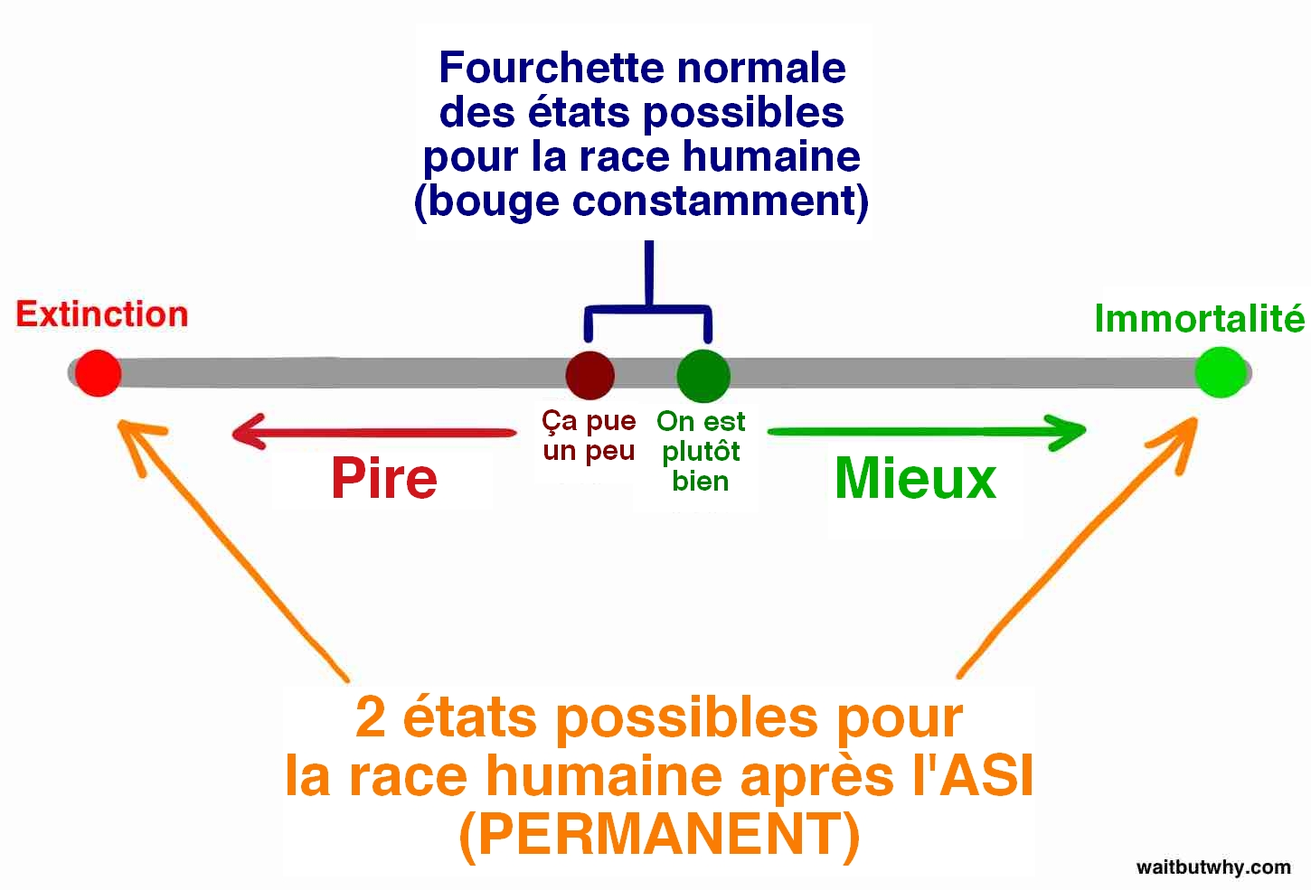
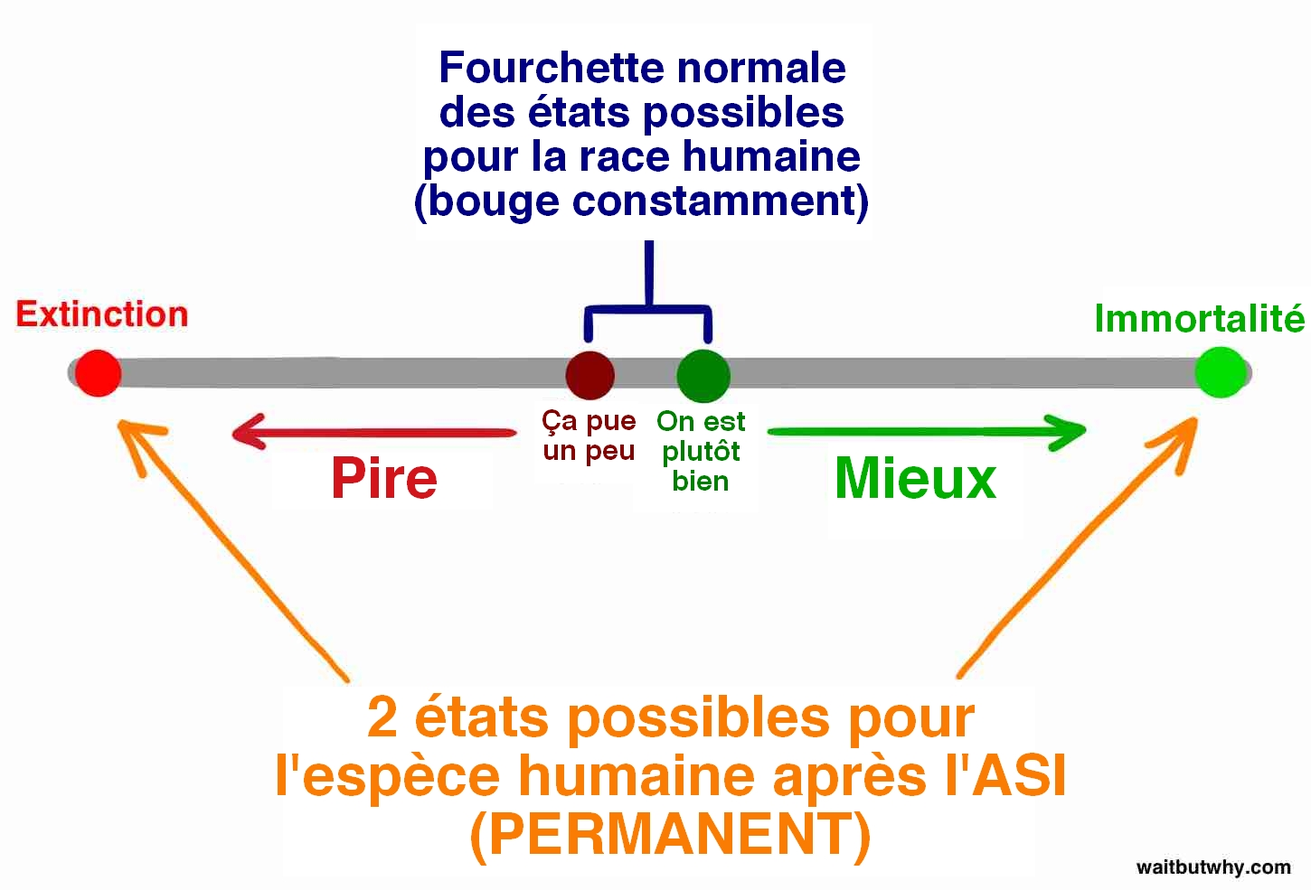
Include content feedback

Changed region(s): [[0.1862, 0.7614, 0.8379, 0.9746]]

diff --git a/src/posts/waitbutwhy1.md b/src/posts/waitbutwhy1.md
@@ -9,6 +9,8 @@ layout: waitbutwhy
 
 **22 janvier 2015 Par Tim Urban – traduction de Février 2025**
 
+**PDF en anglais** : _Nous avons créé un PDF super classe de cet article pour l'impression et la lecture hors ligne. [Achetez-le ici](https://gum.co/wbw-ai1). (Ou consultez-en un [aperçu](https://waitbutwhy.com/wp-content/uploads/2016/04/artificial-intelligence-revolution-1-preview.pdf).) _
+
 Note : _Si ce billet m'a pris trois semaines à finir, c'est qu'en fouillant dans mes recherches sur l'Intelligence Artificielle, je n'arrivais pas à croire ce que je lisais. J'ai rapidement compris que ce qui se passait dans le monde de l'IA n'était pas seulement une question importante, mais de loin LA question la plus importante pour notre avenir. Je voulais donc en apprendre le plus possible à ce sujet, et ceci fait, je voulais m'assurer d'écrire un article qui explique vraiment tout ce que cela recouvre et pourquoi c'est si crucial. Comme on pouvait s'y attendre, ça a pris des proportions énormes, alors j'ai divisé mon post en deux parties. Ceci est la Partie 1 — La Partie 2 est [ici](/waitbutwhy2)._
 
 ---
@@ -19,7 +21,7 @@ Qu'est-ce que ça fait de se trouver là ?
 
 ![La pente est raide](/wbw/part1_01_progress1.png)
 
-On pourrait se dire que c'est un moment d'une grande intensité — mais il faut alors se rappeler ce que ça fait de se trouver sur un axe de temps: on ne peut pas voir ce qui se trouve à sa droite. Donc être là on le ressent plutôt comme ça : :
+On pourrait se dire que c'est un moment d'une grande intensité — mais il faut alors se rappeler ce que ça fait de se trouver sur un axe de temps: on ne peut pas voir ce qui se trouve à sa droite. Donc être là on le ressent plutôt comme ça :
 
 ![La pente est raide](/wbw/part1_02_progress2.jpg)
 
@@ -27,17 +29,17 @@ Ce qui a l'air plutôt normal…
 
 # L'avenir lointain — Bientôt chez vous
 
-Imaginez que vous preniez une machine à voyager dans le temps et que vous retourniez en 1750 — une époque où le monde était plongé dans une panne de courant généralisée, où pour communiquer sur de longues distances il fallait soit hurler à pleins poumons, soit tirer un coup de canon en l'air, et où tous les moyens de transports tournaientau foin. Une fois arrivé à destination, vous chopez un type, vous l'amenez en 2015, puis vous lui faites faire un petit tour et vous observez sa réaction face à tout ce qui l'entoure. On ne peut pas comprendre ce que ça lui ferait de voir des capsules brillantes filant sur une autoroute, de parler à des personnes qui étaient de l'autre côté de l'océan le matin même, de regarder des compétitions sportives qui se déroulent à 1500 km de là, d'écouter un concert qui a eu lieu il y a 50 ans, et de jouer avec mon rectangle magique ensorcelé lui permettant de capturer une image réelle ou d'enregistrer un moment de vie, de faire apparaître une carte avec un point bleu surnaturel qui bouge et lui montre où il est, de voir le visage de quelqu'un et de discuter avec lui alors qu'il est de l'autre côté du pays, et tout un tas d'autres sorcelleriesqui dépassent l'entendement. Et tout ça avant même de lui faire découvrir Internet ou de lui expliquer des choses comme la Station Spatiale Internationale, le Grand Accélérateur de Hadrons, les armes nucléaires ou la relativité générale.
+Imaginez que vous preniez une machine à voyager dans le temps et que vous retourniez en 1750 — une époque où le monde était plongé dans une panne de courant généralisée, où pour communiquer sur de longues distances il fallait soit hurler à pleins poumons, soit tirer un coup de canon en l'air, et où tous les moyens de transports tournaient au foin. Une fois arrivé à destination, vous prenez un type, vous l'amenez en 2015, puis vous lui faites faire un petit tour et vous observez sa réaction face à tout ce qui l'entoure. On ne peut pas comprendre ce que ça lui ferait de voir des capsules brillantes filant sur une autoroute, de parler à des personnes qui étaient de l'autre côté de l'océan le matin même, de regarder des compétitions sportives qui se déroulent à 1500 km de là, d'écouter un concert qui a eu lieu il y a 50 ans, et de jouer avec mon rectangle magique ensorcelé lui permettant de capturer une image réelle ou d'enregistrer un moment de vie, de faire apparaître une carte avec un point bleu surnaturel qui bouge et lui montre où il est, de voir le visage de quelqu'un et de discuter avec lui alors qu'il est de l'autre côté du pays, et tout un tas d'autres sorcelleries qui dépassent l'entendement. Et tout ça avant même de lui faire découvrir Internet ou de lui expliquer des choses comme la Station Spatiale Internationale, le Grand Accélérateur de Hadrons, les armes nucléaires ou la relativité générale.
 
 Cette expérience pour lui ne serait ni surprenante, ni choquante, ni même renversante — ces mots ne sont pas assez forts. Il pourrait littéralement en mourir.
 
-Mais voici ce qui est intéressant : Imaginant que ce type retourne lui-même en 1750, et piqué au vif par le fait que nous avons pu observer sa réaction, il décide de tenter l'expérience aussi. Il monterait dans la machine à voyager dans le temps et, reculant de la même distance, il capturerait quelqu'un vivant en l'an 1500, l'amènerait en 1750 et lui montrerait tout. Le gars de 1500 serait choqué par beaucoup de choses — mais il ne mourrait pas. Ce serait beaucoup moins dingue à vivre pour lui, car bien que 1500 et 1750 soient des époques très différentes, elles étaient bien moins différentes que 1750 et 2015.
+Mais voici ce qui est intéressant : Imaginant que ce type retourne lui-même en 1750, et piqué au vif par le fait que nous avons pu observer sa réaction, il décide de tenter l'expérience aussi. Il monterait dans la machine à voyager dans le temps et, reculant de la même distance, il capturerait quelqu'un vivant en l'an 1500, l'amènerait en 1750 et lui montrerait tout. Le type de 1500 serait choqué par beaucoup de choses — mais il n'en mourrait pas. Ce serait _beaucoup_ moins dingue à vivre pour lui, car bien que 1500 et 1750 soient des époques très différentes, elles étaient _bien moins_ différentes que 1750 et 2015.
 
-Le gars de 1500 apprendrait des dingueries sur l'espace et la physique, il serait impressionné par la persistance de l'Europe à s'engager dans la voie de l'impérialisme qui n'était qu'une lubie à son époque, et il devrait revoir sérieusement sa version de la carte du monde. Mais l'observation de la vie quotidienne en 1750 — les transports, les communications, etc. — ne le tuerait certainement pas.
+Le type de 1500 apprendrait des dingueries sur l'espace et la physique, il serait impressionné par la persistance de l'Europe à s'engager dans la voie de l'impérialisme qui n'était qu'une lubie à son époque, et il devrait revoir sérieusement sa version de la carte du monde. Mais l'observation de la vie quotidienne en 1750 — les transports, les communications, etc. — ne le tuerait certainement pas.
 
-Non, pour que le gars de 1750 s'amuse autant que nous nous sommes amusés avec lui, il devrait remonter bien plus loin — peut-être jusqu'à environ 12 000 av. J.-C., avant la Première Révolution Agricole qui a donné naissance aux premières villes et au concept de civilisation. Si un individu issu d'un monde exclusivement composé de chasseurs-cueilleurs — c'est-à-dire d'une époque où les humains étaient, grosso modo, une espèce animale parmi tant d'autres— voyait les vastes empires humains de 1750 avec leurs églises imposantes, leurs navires traversant les océans, leur concept d'"intériorité domestique", et leur gigantesque montagne de connaissances et de découvertes humaines collectives accumulées — il en mourrait sans doute.
+Non, pour que le type de 1750 s'amuse autant que nous nous sommes amusés avec lui, il devrait remonter bien plus loin — peut-être jusqu'à environ 12 000 av. J.-C., avant la Première Révolution Agricole qui a donné naissance aux premières villes et au concept de civilisation. Si un individu issu d'un monde exclusivement composé de chasseurs-cueilleurs — c'est-à-dire d'une époque où les humains étaient, grosso modo, une espèce animale parmi tant d'autres— voyait les vastes empires humains de 1750 avec leurs églises imposantes, leurs navires traversant les océans, leur concept d'"intériorité domestique", et leur gigantesque montagne de connaissances et de découvertes humaines collectives accumulées — il en mourrait sans doute.
 
-Imaginons maintenant qu'après être tombé raide, cet autre gars lui-même était piqué au vif et voulait faire la même chose. S'il remontait 12 000 ans en arrière jusqu'à 24 000 av. J.-C. et amenait un gars à la date de 12 000 av. J.-C., qu'il lui fasse tout visiter, le gars dirait : "Bon, OK, c'était quoi le but ? Aucun intérêt."Pour que le gars de 12 000 av. J.-C. s'amuse autant, il devrait remonter à plus de 100 000 ans et trouver quelqu'un à qui il pourrait montrer le feu et le langage pour la première fois.
+Imaginons maintenant qu'après être tombé raide, cet autre type lui-même était piqué au vif et voulait faire la même chose. S'il remontait 12 000 ans en arrière jusqu'à 24 000 av. J.-C. et amenait quelqu'un à la date de 12 000 av. J.-C., qu'il lui fasse tout visiter, la personne dirait : "Bon, OK, c'était quoi le but ? Aucun intérêt." Pour que le type de 12 000 av. J.-C. s'amuse autant, il devrait remonter à plus de 100 000 ans et trouver quelqu'un à qui il pourrait montrer le feu et le langage pour la première fois.
 
 Pour qu'une personne propulsée dans le futur meure du choc qu'elle subirait, elle doit avancer de suffisamment d'années pour qu'elle atteigne une "progression mortelle", ou une Unité de Progression Mortelle (UPM). Ainsi, une UPM a pris plus de 100 000 ans à l'époque des chasseurs-cueilleurs, mais au rythme post-Révolution Agricole, il n'a fallu que 12 000 ans environ. Le monde post-Révolution Industrielle a progressé si rapidement qu'une personne de 1750 n'a besoin d'avancer que de quelques centaines d'années pour qu'une UPM se produise.
 
@@ -51,7 +53,7 @@ Donc — les avancées vont croissant et se produisent de plus en plus rapidemen
 
 Kurzweil émet l'hypothèse que les progrès de l'ensemble du XXe siècle auraient pu être accomplis en seulement 20 ans au rythme de progression de l'an 2000 — en d'autres termes, dès 2000, le rythme de progression était cinq fois plus rapide que le taux moyen de progression du XXe siècle. Il est convaincu qu'un _autre_ siècle de progrès a eu lieu entre 2000 et 2014, et qu'encore un autre siècle de progrès aura lieu d'ici 2021, en seulement sept ans. Quelques décennies plus tard, il croit qu'un siècle de progrès se produira plusieurs fois dans la même année, et plus tard encore, en moins d'un mois. Tout compte fait, en raison de la Loi des Rendements Accélérés, Kurzweil pense que le XXIe siècle accomplira _1 000 fois_ les progrès du XXe siècle. {(2)}
 
-Si Kurzweil et ceux qui sont d'accord avec lui ont raison, nous pourrions être aussi stupéfaits en 2030 que notre gars de 1750 l'était en 2015 — c'est-à-dire que la prochaine UPM pourrait ne prendre que quelques décennies — et le monde en 2050 pourrait être tellement différent du monde actuel que nous aurions du mal à le reconnaître.
+Si Kurzweil et ceux qui sont d'accord avec lui ont raison, nous pourrions être aussi stupéfaits en 2030 que notre type de 1750 l'était en 2015 — c'est-à-dire que la prochaine UPM pourrait ne prendre que quelques décennies — et le monde en 2050 pourrait être tellement différent du monde actuel que nous aurions du mal à le reconnaître.
 
 Ce n'est pas de la science-fiction. C'est ce que de nombreux scientifiques plus intelligents et plus compétents que vous ou moi croient dur comme fer — et si l'on regarde l'histoire, en toute logique, on devrait arriver à la même projection.
 
@@ -90,6 +92,7 @@ Il y a trois raisons qui font que beaucoup de gens ne saisissent pas vraiment le
 **1) Nous associons l'IA aux films.** Star Wars. Terminator. 2001 : L'Odyssée de l'espace. Même les Jetsons. Et tout cela relève de la fiction, tout comme les personnages qui sont des robots. Tout cela rend l'IA un peu fictive à nos yeux.
 
 **2) L'IA est un vaste sujet.** Elle va de la calculatrice de votre téléphone aux voitures autonomes, en passant par une chose qui pourrait changer le monde de manière spectaculaire à l'avenir. L'IA englobe tout cela à la fois, ce qui peut prêter à confusion.
+
 **3) Nous utilisons l'IA tout le temps dans notre vie quotidienne, mais nous ne nous rendons pas vraiment compte que c'est de l'IA.** John McCarthy, qui a inventé le terme "intelligence artificielle"en 1956, se plaignait de ce que "dès que cela fonctionne, on ne l'appelle plus IA."{(4)} À cause de ce phénomène, l'IA a souvent l'air d'être une sorte de prophétie concernant l'avenir plutôt qu'une réalité. En même temps, cela donne l'impression qu'il s'agit d'un concept issu de la culture pop du passé qui ne s'est jamais concrétisé. Ray Kurzweil confie qu'il entend des gens affirmer que l'IA a périclité dans les années 1980, ce qui pour lui revient à "affirmer qu'Internet est mort lors de l'effondrement des bulles dot-com au début des années 2000."{(5)}
 
 Mettons donc les choses au clair. Tout d'abord, arrêtez de penser aux _robots_. Un robot est un _réceptacle_ pour l'IA, ayant parfois forme humaine, parfois non — mais l'IA elle-même est l'ordinateur _à l'intérieur_ du robot. L'IA est le cerveau, et le robot est son corps—si tant est qu'elle en ait un. Par exemple, le logiciel et les données derrière Siri constituent une IA, la voix féminine que nous entendons est une personnification de cette IA, et aucun robot n'entre dans le processus.
@@ -98,11 +101,11 @@ Deuxièmement, vous avez probablement entendu parler du terme "singularité"ou "
 
 Enfin, bien qu'il existe de nombreux types ou formes d'IA, car l'IA est un concept très vaste, les catégories critiques auxquelles nous devons réfléchir se basent sur le _calibre_ de l'IA. Il existe trois grandes catégories de calibre d'IA :
 
-**Calibre d'IA 1) Intelligence Artificielle Étroite (ANI)** : Parfois appelée _IA faible_, l'Intelligence Artificielle Étroite est une IA qui se spécialise dans _un_ domaine. Il existe une IA capable de battre le champion du monde d'échecs aux échecs, mais c'est la seule chose qu'elle sait faire. Demandez-lui de trouver une meilleure façon de stocker des données sur un disque dur, et elle vous fixera d'un regard vide.
+**Calibre d'IA 1) Intelligence Artificielle Étroite / Artificial Narrow Intelligence (ANI)** : Parfois appelée _IA faible_, l'Intelligence Artificielle Étroite est une IA qui se spécialise dans _un_ domaine. Il existe une IA capable de battre le champion du monde d'échecs aux échecs, mais c'est la seule chose qu'elle sait faire. Demandez-lui de trouver une meilleure façon de stocker des données sur un disque dur, et elle vous fixera d'un regard vide.
 
-**Calibre d'IA 2) Intelligence Artificielle Générale (AGI)** : Parfois appelée _IA forte_ ou _IA de niveau humain_, l'Intelligence Artificielle Générale désigne un ordinateur aussi intelligent qu'un humain _dans tous les domaines_ — une machine capable d'exécuter n'importe quelle tâche intellectuelle qu'un être humain peut accomplir. Créer une AGI est une tâche _bien plus_ difficile que de créer une IA étroite, et nous n'y sommes pas encore parvenus. La professeure Linda Gottfredson décrit l'intelligence comme "une capacité mentale très générale qui, entre autres choses, implique la capacité de raisonner, de planifier, de résoudre des problèmes, de penser abstraitement, de comprendre des idées complexes, d'apprendre rapidement et d'apprendre à partir de l'expérience."Une AGI serait capable de faire tout cela aussi facilement que vous.
+**Calibre d'IA 2) Intelligence Artificielle Générale / Artificial General Intelligence (AGI)** : Parfois appelée _IA forte_ ou _IA de niveau humain_, l'Intelligence Artificielle Générale désigne un ordinateur aussi intelligent qu'un humain _dans tous les domaines_ — une machine capable d'exécuter n'importe quelle tâche intellectuelle qu'un être humain peut accomplir. Créer une AGI est une tâche _bien plus_ difficile que de créer une IA étroite, et nous n'y sommes pas encore parvenus. La professeure Linda Gottfredson décrit l'intelligence comme "une capacité mentale très générale qui, entre autres choses, implique la capacité de raisonner, de planifier, de résoudre des problèmes, de penser abstraitement, de comprendre des idées complexes, d'apprendre rapidement et d'apprendre à partir de l'expérience."Une AGI serait capable de faire tout cela aussi facilement que vous.
 
-**Calibre d'IA 3) Superintelligence Artificielle (ASI)** : Nick Bostrom, philosophe à l'université d'Oxford et penseur de premier plan en matière d'IA, [définit](https://nickbostrom.com/superintelligence) la superintelligence comme "un intellect beaucoup plus intelligent que les meilleurs cerveaux humains dans pratiquement tous les domaines, y compris la créativité scientifique, la sagesse générale et les compétences sociales."L'ASI va d'un ordinateur légèrement plus intelligent qu'un humain à un ordinateur des trilliards de fois plus intelligent — dans tous les domaines. L'ASI est la raison qui fait que le sujet de l'IA est si passionnant et pourquoi les mots "immortalité"et "extinction"apparaîtront plusieurs fois dans ces textes.
+**Calibre d'IA 3) Superintelligence Artificielle / Artificial Super Intelligence (ASI)** : Nick Bostrom, philosophe à l'université d'Oxford et penseur de premier plan en matière d'IA, [définit](https://nickbostrom.com/superintelligence) la superintelligence comme "un intellect beaucoup plus intelligent que les meilleurs cerveaux humains dans pratiquement tous les domaines, y compris la créativité scientifique, la sagesse générale et les compétences sociales". L'ASI va d'un ordinateur légèrement plus intelligent qu'un humain à un ordinateur des billions de fois plus intelligent — dans tous les domaines. L'ASI est la raison qui fait que le sujet de l'IA est si passionnant et pourquoi les mots "immortalité"et "extinction"apparaîtront plusieurs fois dans ces textes.
 
 À ce jour, les humains ont conquis le niveau le plus bas de l'IA — l'IA étroite — de nombreuses manières, et elle est omniprésente. La Révolution de l'IA est le périple qui mène de l'IA étroite, en passant par l'AGI, jusqu'à l'ASI — un périple auquel nous pourrions bien ne pas survivre, mais qui, dans tous les cas, changera absolument tout.
 
@@ -114,31 +117,31 @@ Examinons de près ce que pensent les experts du domaine concernant ce périple 
 
 L'Intelligence Artificielle étroite (ANI) est une intelligence informatique qui égale ou dépasse l'intelligence ou l'efficacité humaine dans un domaine _spécifique_. Voici quelques exemples :
 
-- Les voitures regorgent de systèmes ANI, du calculateur qui détermine quand activer le système antiblocage des freins à celui qui règle les paramètres des systèmes d'injection de carburant. [La voiture autonome](https://www.youtube.com/channel/UCCLyNDhxwpqNe3UeEmGHl8g) de Google, actuellement en phase de test, contient des systèmes d'IA étroite robustes qui lui permettent de percevoir et de réagir au monde qui l'entoure.
+- Les voitures regorgent de systèmes d'ANI, du calculateur qui détermine quand activer le système antiblocage des freins à celui qui règle les paramètres des systèmes d'injection de carburant. [La voiture autonome](https://www.youtube.com/channel/UCCLyNDhxwpqNe3UeEmGHl8g) de Google, actuellement en phase de test, contient des systèmes d'IA étroites robustes qui lui permettent de percevoir et de réagir au monde qui l'entoure.
 - Votre téléphone est une petite usine d'ANI. Lorsque vous naviguez avec une application de géolocalisation, recevez des recommandations musicales personnalisées via Pandora, consultez la météo du lendemain, parlez à Siri ou effectuez des dizaines d'autres activités quotidiennes, vous utilisez l'IA étroite.
 - Votre filtre anti-spam de courrier électronique est un exemple classique d'ANI— cela part d'une intelligence artificielle lui permettant de déterminer ce qui est du spam ou non, puis il apprend et adapte son intelligence à vous à mesure qu'il acquiert de l'expérience en se basant sur vos préférences particulières. Le thermostat Nest fait la même chose en intégrant vos habitudes pour s'y adapter.
-- Vous connaissez ce truc flippant qui se passe quand vous recherchez un produit sur Amazon et que vous le retrouvez ensuite comme un produit "recommandé pour vous"sur un _autre_ site, ou quand Facebook semble deviner comme par magie qui vous devriez ajouter comme ami ? C'est un réseau de systèmes ANI qui travaillent ensemble pour s'informer mutuellement de qui vous êtes et de ce que vous aimez, puis pour utiliser ces informations pour décider de ce qu'ils vont vous montrer. Même chose pour la recommandation d'Amazon "Les personnes ayant acheté ceci ont également acheté..."- c'est un système ANI dont le travail consiste à collecter des informations à partir du comportement de millions de clients et à synthétiser ces informations pour vous inciter subtilement à acheter plus de choses.
-- Google Traduction est un autre système ANI classique - remarquablement adapté à une tâche étroite et précise. La reconnaissance vocale en est un autre, et il existe de nombreuses applications qui utilisent ces deux IA étroites en duo, vous permettant de prononcer une phrase dans une langue et de faire générer la même phrase dans une autre par votre téléphone.
+- Vous connaissez ce truc flippant qui se passe quand vous recherchez un produit sur Amazon et que vous le retrouvez ensuite comme un produit "recommandé pour vous"sur un _autre_ site, ou quand Facebook semble deviner comme par magie qui vous devriez ajouter comme ami ? C'est un réseau de systèmes d'ANI qui travaillent ensemble pour s'informer mutuellement de qui vous êtes et de ce que vous aimez, puis pour utiliser ces informations pour décider de ce qu'ils vont vous montrer. Même chose pour la recommandation d'Amazon "Les personnes ayant acheté ceci ont également acheté..."- c'est un système d'ANI dont le travail consiste à collecter des informations à partir du comportement de millions de clients et à synthétiser ces informations pour vous inciter subtilement à acheter plus de choses.
+- Google Traduction est un autre système d'ANI classique - remarquablement adapté à une tâche étroite et précise. La reconnaissance vocale en est un autre, et il existe de nombreuses applications qui utilisent ces deux IA étroites en duo, vous permettant de prononcer une phrase dans une langue et de faire générer la même phrase dans une autre par votre téléphone.
 - Quand votre avion atterrit, ce n'est pas un humain qui décide à quelle porte il doit se rendre. Tout comme ce n'est pas un humain qui a déterminé le prix de votre billet.
-- Les meilleurs joueurs mondiaux de dames, d'échecs, de Scrabble, de Backgammon et d'Othello sont maintenant tous des systèmes ANI.
-- Google Recherche est un grand cerveau ANI avec des méthodes incroyablement sophistiquées pour classer les pages et déterminer ce qu'il doit vous montrer en particulier. Il en va de même pour le fil d'actualité de Facebook.
+- Les meilleurs joueurs mondiaux de dames, d'échecs, de Scrabble, de Backgammon et d'Othello sont maintenant tous des systèmes d'ANI.
+- Google Recherche est un grand cerveau d'ANI avec des méthodes incroyablement sophistiquées pour classer les pages et déterminer ce qu'il doit vous montrer en particulier. Il en va de même pour le fil d'actualité de Facebook.
 - Et ce ne sont que quelques exemples dans le domaine du grand public. Des systèmes d'IA étroites sophistiqués sont largement utilisés dans des secteurs et des industries comme l'armée, dans la production et la finance (les traders algorithmiques à haute fréquence représentent plus de la moitié des actions négociées sur les marchés américains {(6)}), et dans des systèmes experts comme ceux qui aident les médecins à établir des diagnostics ou bien encore - cela a fait les gros titres – dans [Watson](https://www.ibm.com/watsonx) de chez IBM qui contenait suffisamment d'informations factuelles et comprenait assez bien le langage très allusif du présentateur Alex Trebek pour battre haut la main les champions les plus prolifiques de Jeopardy.
 
 &nbsp;
 
-Les systèmes ANI tels qu'ils existent actuellement ne font pas particulièrement peur. Au pire, une ANI défectueuse ou mal programmée peut provoquer une catastrophe isolée comme une panne de réseau électrique, un incident dangereux dans une centrale nucléaire, ou un désastre sur les marchés financiers (comme le [Flash Crash de 2010](https://ritholtz.com/wp-content/uploads/2010/10/flash-crash-dow-popup.png) où un programme ANI a mal réagi à une situation inattendue et a fait plonger brièvement le marché boursier, faisant s'évaporer 1000 milliards de dollars de valeurs boursières, dont seulement une partie fut récupérée après correction de l'erreur).
+Les systèmes d'ANI tels qu'ils existent actuellement ne font pas particulièrement peur. Au pire, une d'ANI défectueuse ou mal programmée peut provoquer une catastrophe isolée comme une panne de réseau électrique, un incident dangereux dans une centrale nucléaire, ou un désastre sur les marchés financiers (comme le [Flash Crash de 2010](https://ritholtz.com/wp-content/uploads/2010/10/flash-crash-dow-popup.png) où un programme d'ANI a mal réagi à une situation inattendue et a fait plonger brièvement le marché boursier, faisant s'évaporer 1000 milliards de dollars de valeurs boursières, dont seulement une partie fut récupérée après correction de l'erreur).
 
-Mais bien que l'ANI ne puisse pas constituer une _menace existentielle_, il serait bon que nous considérions cet écosystème de plus en plus large et complexe d'ANI relativement inoffensives comme un précurseur de l'ouragan qui va bouleverser le monde. Chaque nouvelle innovation ANI ajoute silencieusement un pavé de la route qui mène vers l'AGI et l'ASI. Ou pour le décrire [à la façon d'Aaron Saenz](http://singularityhub.com/2010/08/10/we-live-in-a-jungle-of-artificial-intelligence-that-will-spawn-sentience/), les systèmes ANI de notre monde sont "comme les acides aminés dans la boue primordiale de la Terre primitive"- la matière inanimée de la vie qui, un jour, s'est réveillée sans crier gare.
+Mais bien que l'ANI ne puisse pas constituer une _menace existentielle_, il serait bon que nous considérions cet écosystème de plus en plus large et complexe d'ANI relativement inoffensives comme un précurseur de l'ouragan qui va bouleverser le monde. Chaque nouvelle innovation d'ANI ajoute silencieusement un pavé de la route qui mène vers l'AGI et l'ASI. Ou pour le décrire [à la façon d'Aaron Saenz](http://singularityhub.com/2010/08/10/we-live-in-a-jungle-of-artificial-intelligence-that-will-spawn-sentience/), les systèmes ANI de notre monde sont "comme les acides aminés dans la boue primordiale de la Terre primitive"- la matière inanimée de la vie qui, un jour, s'est réveillée sans crier gare.
 
-# La Route de l'IA étroite à l'IAG (Intelligence Artificielle Générale)
+# La Route de l'ANI à l'AGI
 
-### <u>Pourquoi C'est Si Difficile</u>
+### <u>Pourquoi c'est si difficile</u>
 
 Ce n'est que lorsqu'on s'attaque à la tâche incroyablement difficile d'essayer de créer un ordinateur aussi intelligent que nous que l'on peut commencer à apprécier l'intelligence humaine. Construire des gratte-ciels, envoyer des humains dans l'espace, comprendre les détails du Big Bang - tout cela est bien plus facile que de comprendre notre propre cerveau ou comment créer quelque chose d'aussi extraordinaire. À l'heure actuelle, le cerveau humain reste l'objet le plus complexe de l'univers connu.
 
 Ce qui est intéressant, c'est que les étapes les plus délicates pour construire l'AGI (un ordinateur aussi intelligent que les humains en général, pas seulement dans une spécialité étroite) ne sont pas celles auxquelles on pourrait penser intuitivement. Construire un ordinateur capable de multiplier deux nombres de dix chiffres en une fraction de seconde - incroyablement facile. En construire un capable de regarder un chien et de répondre s'il s'agit d'un chien ou d'un chat - spectaculairement difficile. Créer une IA capable de battre n'importe quel humain aux échecs ? Fait. En créer une capable de lire un paragraphe d'un livre d'images pour enfants de six ans et non seulement de reconnaître les mots, mais de comprendre leur _signification_ ? Google dépense actuellement des [milliards](https://www.wired.com/2014/01/google-buying-way-making-brain-irrelevant/) de dollars pour y parvenir. Les choses difficiles - comme le calcul, les stratégies des marchés financiers et la traduction des langues - sont d'une facilité déconcertante pour un ordinateur, tandis que les choses faciles - comme la vision, le mouvement et la perception - sont atrocement difficiles pour lui. Ou, comme le dit le scientifique en informatique Donald Knuth, "L'IA a jusqu'à présent réussi à faire essentiellement tout ce qui nécessite de la 'réflexion', mais ne parvient pas à faire la plupart de ce que les humains et les animaux font 'sans réfléchir'."{(7)}
 
-Ce que l'on comprend rapidement en y réfléchissant, c'est que ces choses qui nous semblent faciles sont en réalité incroyablement compliquées, et ne nous paraissent faciles que parce que ces compétences ont été optimisées chez nous (et chez la plupart des animaux) par des centaines de millions d'années d'évolution animale. Quand vous tendez votre main vers un objet, les muscles, les tendons et les os de votre épaule, de votre coude et de votre poignet effectuent instantanément une longue série d'opérations physiques, en coordination avec vos yeux, pour vous permettre de déplacer votre main en ligne droite à travers trois dimensions. Cela ne semble vous demander aucun effort parce que vous avez un logiciel cérébral perfectionné dans ce but. C'est le même principe qui s'applique quand on se demande comment un logiciel malveillant peut être assez bête pour ne pas arriver à résoudre un test consistant à reconnaître des mots affichés en écriture torduequand on veut ouvrir un nouveau compte sur un site : ce qui est impressionnant, c'est que votre cerveau soit _capable_ de le faire.
+Ce que l'on comprend rapidement en y réfléchissant, c'est que ces choses qui nous semblent faciles sont en réalité incroyablement compliquées, et ne nous paraissent faciles que parce que ces compétences ont été optimisées chez nous (et chez la plupart des animaux) par des centaines de millions d'années d'évolution animale. Quand vous tendez votre main vers un objet, les muscles, les tendons et les os de votre épaule, de votre coude et de votre poignet effectuent instantanément une longue série d'opérations physiques, en coordination avec vos yeux, pour vous permettre de déplacer votre main en ligne droite à travers trois dimensions. Cela ne semble vous demander aucun effort parce que vous avez un logiciel cérébral perfectionné dans ce but. C'est le même principe qui s'applique quand on se demande comment un logiciel malveillant peut être assez bête pour ne pas arriver à résoudre un test consistant à reconnaître des mots affichés en écriture tordue quand on veut ouvrir un nouveau compte sur un site : ce qui est impressionnant, c'est que votre cerveau soit _capable_ de le faire.
 
 D'un autre côté, multiplier de grands nombres ou jouer aux échecs sont des activités récentes pour les créatures biologiques que nous sommes et nous n'avons pas eu le temps d'évoluer assez pour être performants dans ces domaines, donc un ordinateur n'a pas besoin de trop se fatiguer pour nous battre. Réfléchissez-y : préféreriez-vous construire un programme capable de multiplier de grands nombres ou un programme capable de capter l'essence de la lettre B au point de pouvoir la reconnaître instantanément, quelle que soit la police ou l'écriture manuscrite parmi des milliers de variations possibles ?
 
@@ -166,11 +169,11 @@ Une chose nécessaire pour l'AGI est une augmentation de la puissance du matéri
 
 Une façon d'exprimer cette capacité est de calculer le nombre total de calculs par seconde (cps) que le cerveau pourrait gérer, en additionnant le nombre total maximal de cps réalisables par chacune des structures cérébrales.
 
-Ray Kurzweil a trouvé un raccourci en prenant une estimation professionnelle des cps d'une structure et son poids par rapport à l'ensemble du cerveau, puis en effectuant un calcul proportionnel pour obtenir une estimation totale. Cela semble un peu hasardeux, mais il l'a fait plusieurs fois avec différentes estimations professionnelles de diverses régions, et le total aboutissait toujours au même ordre de grandeur - environ 10¹⁶, soit 10 quadrillions de cps.
+Ray Kurzweil a trouvé un raccourci en prenant une estimation professionnelle des cps d'une structure et son poids par rapport à l'ensemble du cerveau, puis en effectuant un calcul proportionnel pour obtenir une estimation totale. Cela semble un peu hasardeux, mais il l'a fait plusieurs fois avec différentes estimations professionnelles de diverses régions, et le total aboutissait toujours au même ordre de grandeur - environ 10¹⁶, soit 10 billiards de cps.
 
 Actuellement, le superordinateur le plus rapide du monde, le [Tianhe-2](https://www.reuters.com/article/2014/11/17/us-china-supercomputer-idUSKCN0J11VV20141117/) chinois, a dépassé ce chiffre, atteignant environ 34 quadrillions de cps. Mais le Tianhe-2 est aussi bien relou, occupant une surface de 720 mètres carrés, consommant 24 mégawatts d'électricité (alors que le cerveau fonctionne avec seulement 20 watts), et coûtant 390 millions de dollars à construire. Ce n'est pas encore le genre d'ordinateur particulièrement adapté à une utilisation généralisée, ni même à la plupart des usages commerciaux ou industriels.
 
-Kurzweil nous suggère de considérer le développement des ordinateurs à la lumière du nombre de cps qu'on peut obtenir pour 1 000 dollars. Lorsque ce chiffre atteindra le niveau humain - 10 quadrillions de cps - cela signifiera que l'AGI pourrait bien devenir une réalité très concrète
+Kurzweil nous suggère de considérer le développement des ordinateurs à la lumière du nombre de cps qu'on peut obtenir pour 1 000 dollars. Lorsque ce chiffre atteindra le niveau humain - 10 billiards de cps - cela signifiera que l'AGI pourrait bien devenir une réalité très concrète
 
 [La loi de Moore](https://en.wikipedia.org/wiki/Moore%27s_law) est une règle historiquement fiable selon laquelle la puissance informatique maximale mondiale double approximativement tous les deux ans, ce qui signifie que le progrès du matériel informatique, comme le progrès humain général à travers l'histoire, croît de manière exponentielle. En comparant cela à l'indice de Kurzweil exprimé en cps/1 000 $, nous sommes actuellement à environ 10 billions de cps/1 000 $, pile dans la trajectoire prédite par ce graphique.
 
@@ -294,7 +297,7 @@ C'est le sujet de [la partie 2](/waitbutwhy2) de ce post.
 
 {4}: Vardi, [Artificial Intelligence: Past and Future](http://cacm.acm.org/magazines/2012/1/144824-artificial-intelligence-past-and-future/fulltext), 5.
 
-{5}: Kurzweil, The Singularity is Near](https://www.amazon.com/gp/product/0143037889/ref=as_li_tl?ie=UTF8&camp=1789&creative=390957&creativeASIN=0143037889&linkCode=as2&tag=wabuwh00-20&linkId=54Q62R5PYJBEENTP), 392
+{5}: Kurzweil, [The Singularity is Near](https://www.amazon.com/gp/product/0143037889/ref=as_li_tl?ie=UTF8&camp=1789&creative=390957&creativeASIN=0143037889&linkCode=as2&tag=wabuwh00-20&linkId=54Q62R5PYJBEENTP), 392
 
 {6}: Bostrom, [Superintelligence: Paths, Dangers, Strategies](https://www.amazon.com/gp/product/0199678111/ref=as_li_tl?ie=UTF8&camp=1789&creative=390957&creativeASIN=0199678111&linkCode=as2&tag=wabuwh00-20&linkId=LBOTX2G2R72P5EUA), loc. 597
 
@@ -305,5 +308,9 @@ C'est le sujet de [la partie 2](/waitbutwhy2) de ce post.
 {9}: Kurzweil, The Singularity is Near](https://www.amazon.com/gp/product/0143037889/ref=as_li_tl?ie=UTF8&camp=1789&creative=390957&creativeASIN=0143037889&linkCode=as2&tag=wabuwh00-20&linkId=54Q62R5PYJBEENTP), 118
 
 {10}: Bostrom, [Superintelligence: Paths, Dangers, Strategies](https://www.amazon.com/gp/product/0199678111/ref=as_li_tl?ie=UTF8&camp=1789&creative=390957&creativeASIN=0199678111&linkCode=as2&tag=wabuwh00-20&linkId=LBOTX2G2R72P5EUA), loc. 1500-1576
+
+{11}: Ce terme a été utilisé pour la première fois par l'un des grands penseurs historiques de l'IA, Irving John Good, en 1965.
+
+{12}: Nick Bostrom, [Superintelligence: Paths, Dangers, Strategies](https://www.amazon.com/gp/product/0199678111/ref=as_li_tl?ie=UTF8&camp=1789&creative=390957&creativeASIN=0199678111&linkCode=as2&tag=wabuwh00-20&linkId=LBOTX2G2R72P5EUA), loc. 660
 
 &nbsp

diff --git a/src/posts/waitbutwhy-test.md b/src/posts/waitbutwhy-test.md
@@ -70,3 +70,5 @@ END_DEBUG
 (7): test dans une blue box
 
 (8): test dans une bluer box
+
+&nbsp;
